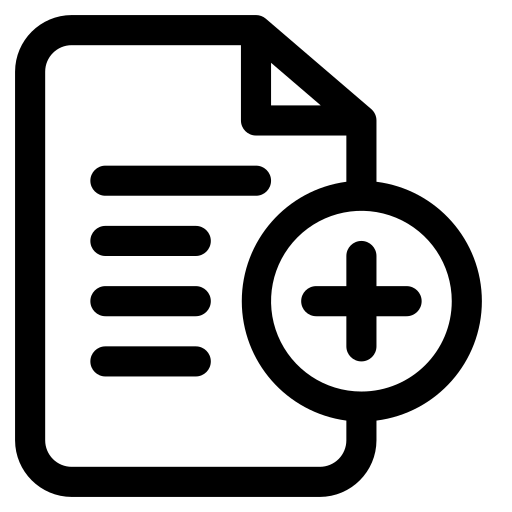
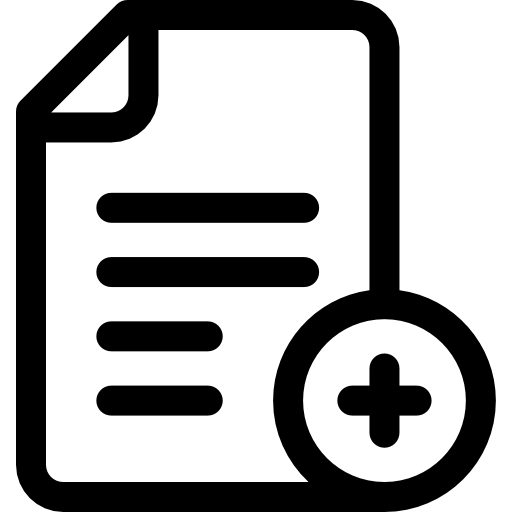
download new file/save/open images (now in one style)

diff --git a/images/images_source.html b/images/images_source.html
@@ -1,0 +1,7 @@
+<a href="https://www.flaticon.com/free-icons/document" title="document icons">Document icons created by Freepik - Flaticon</a>
+<br> </br>
+<a href="https://www.flaticon.com/free-icons/save" title="save icons">Save icons created by Freepik - Flaticon</a>
+<br> </br>
+<a href="https://www.flaticon.com/free-icons/contract" title="contract icons">Contract icons created by Freepik - Flaticon</a>
+<br> </br>
+<a href="https://www.flaticon.com/free-icons/folder" title="folder icons">Folder icons created by Freepik - Flaticon</a>
